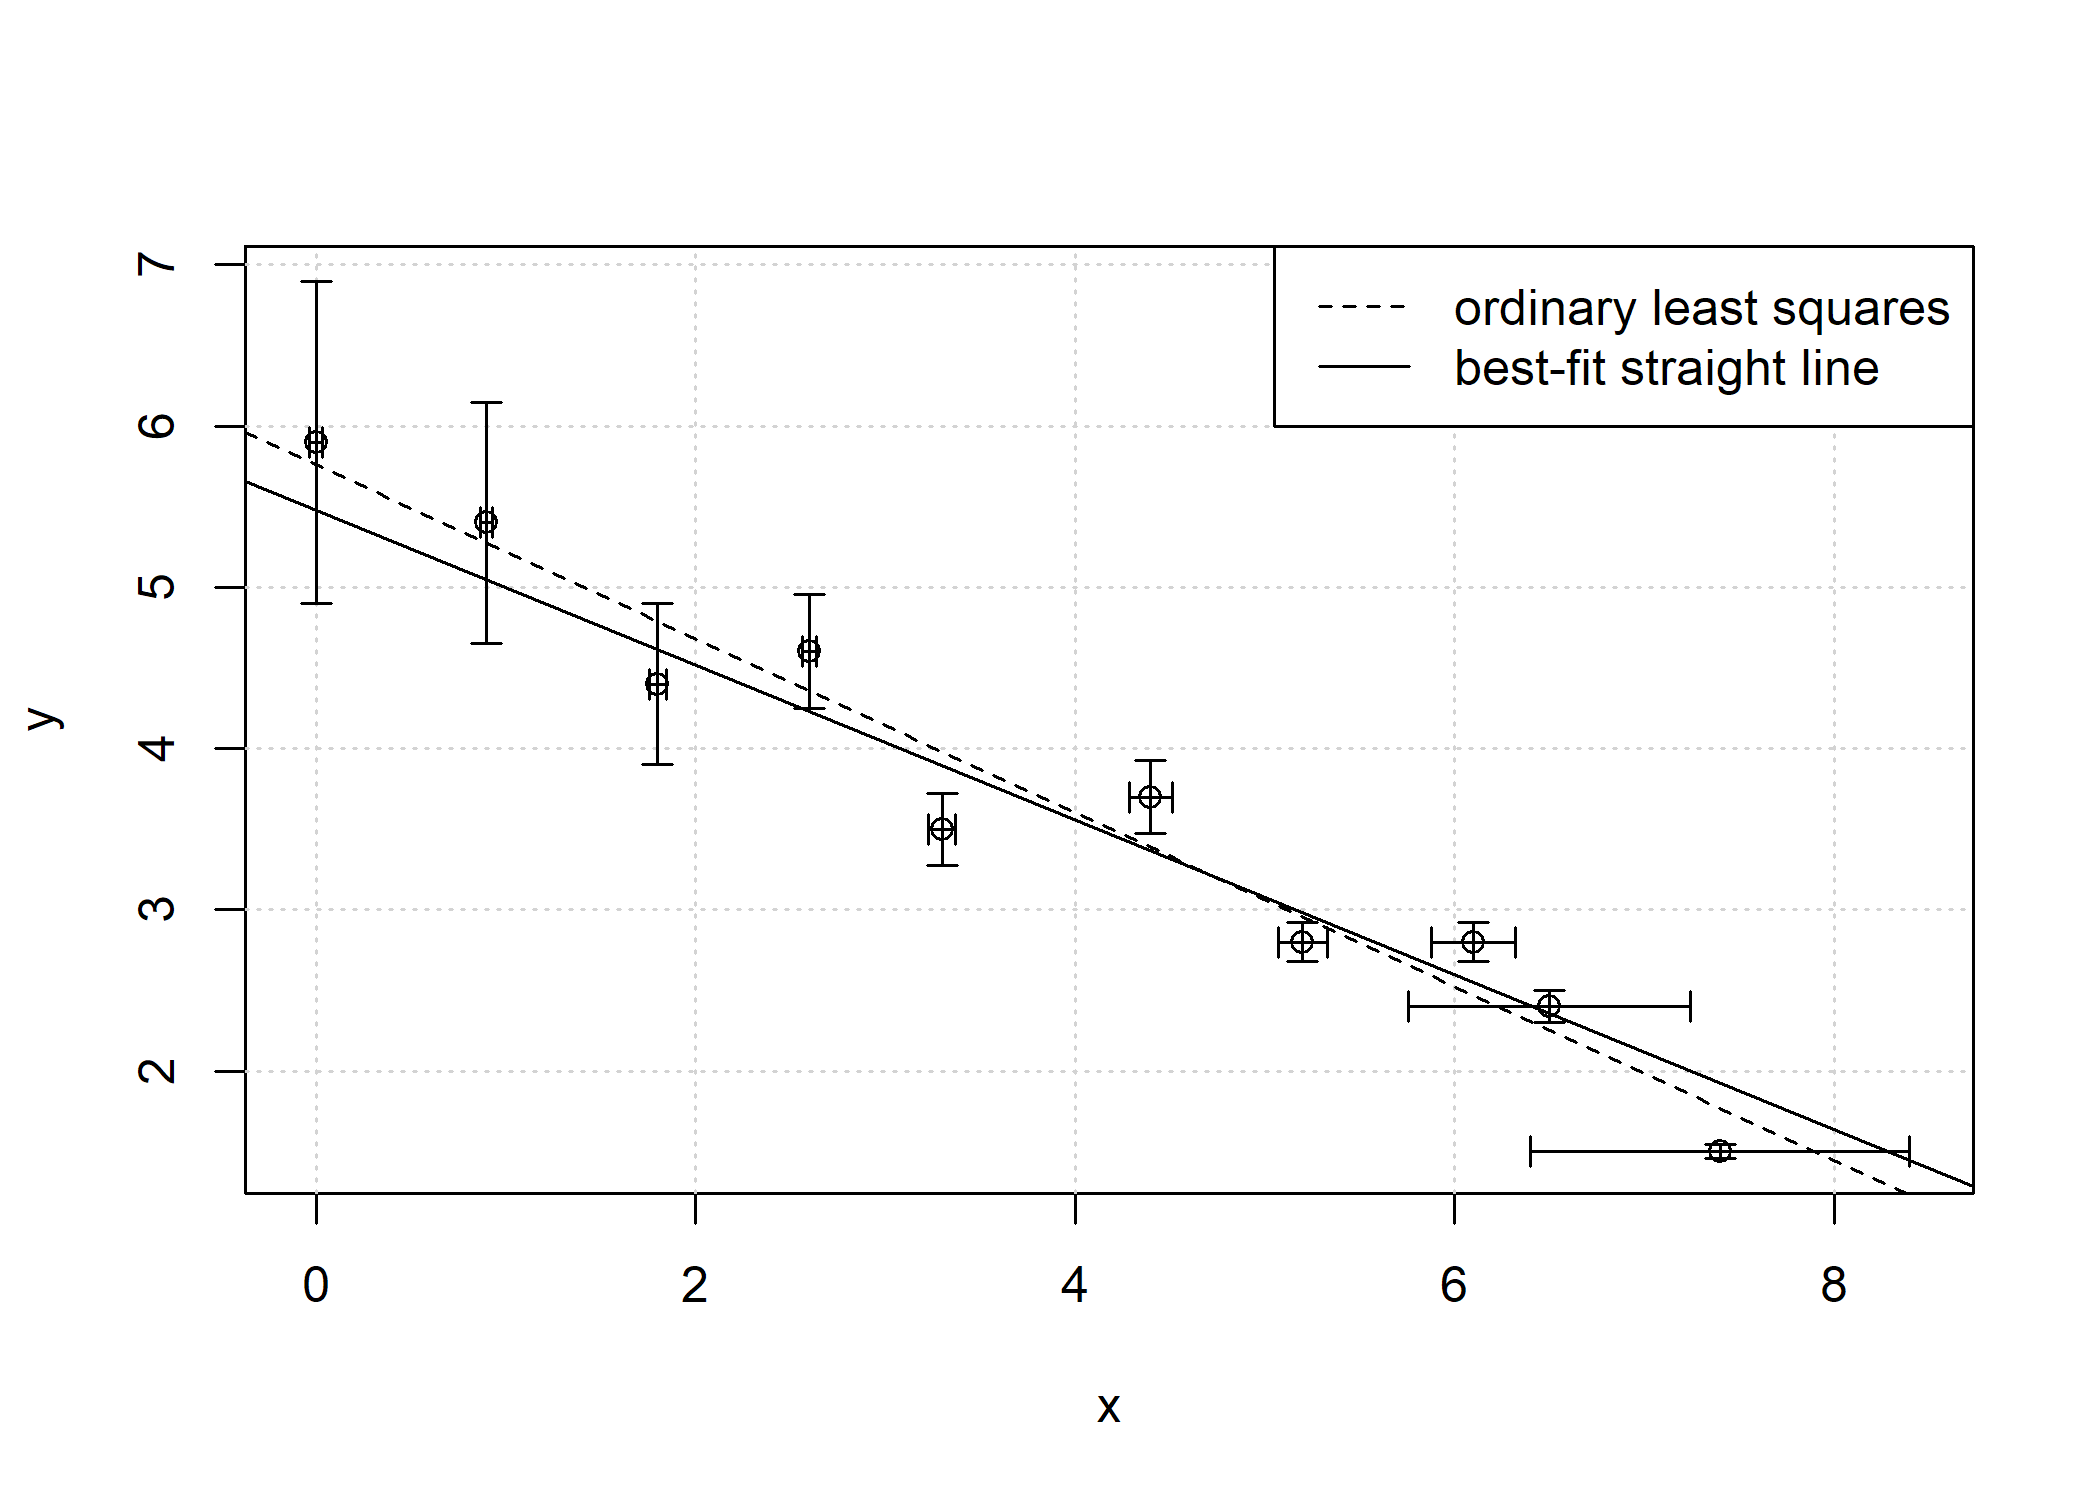
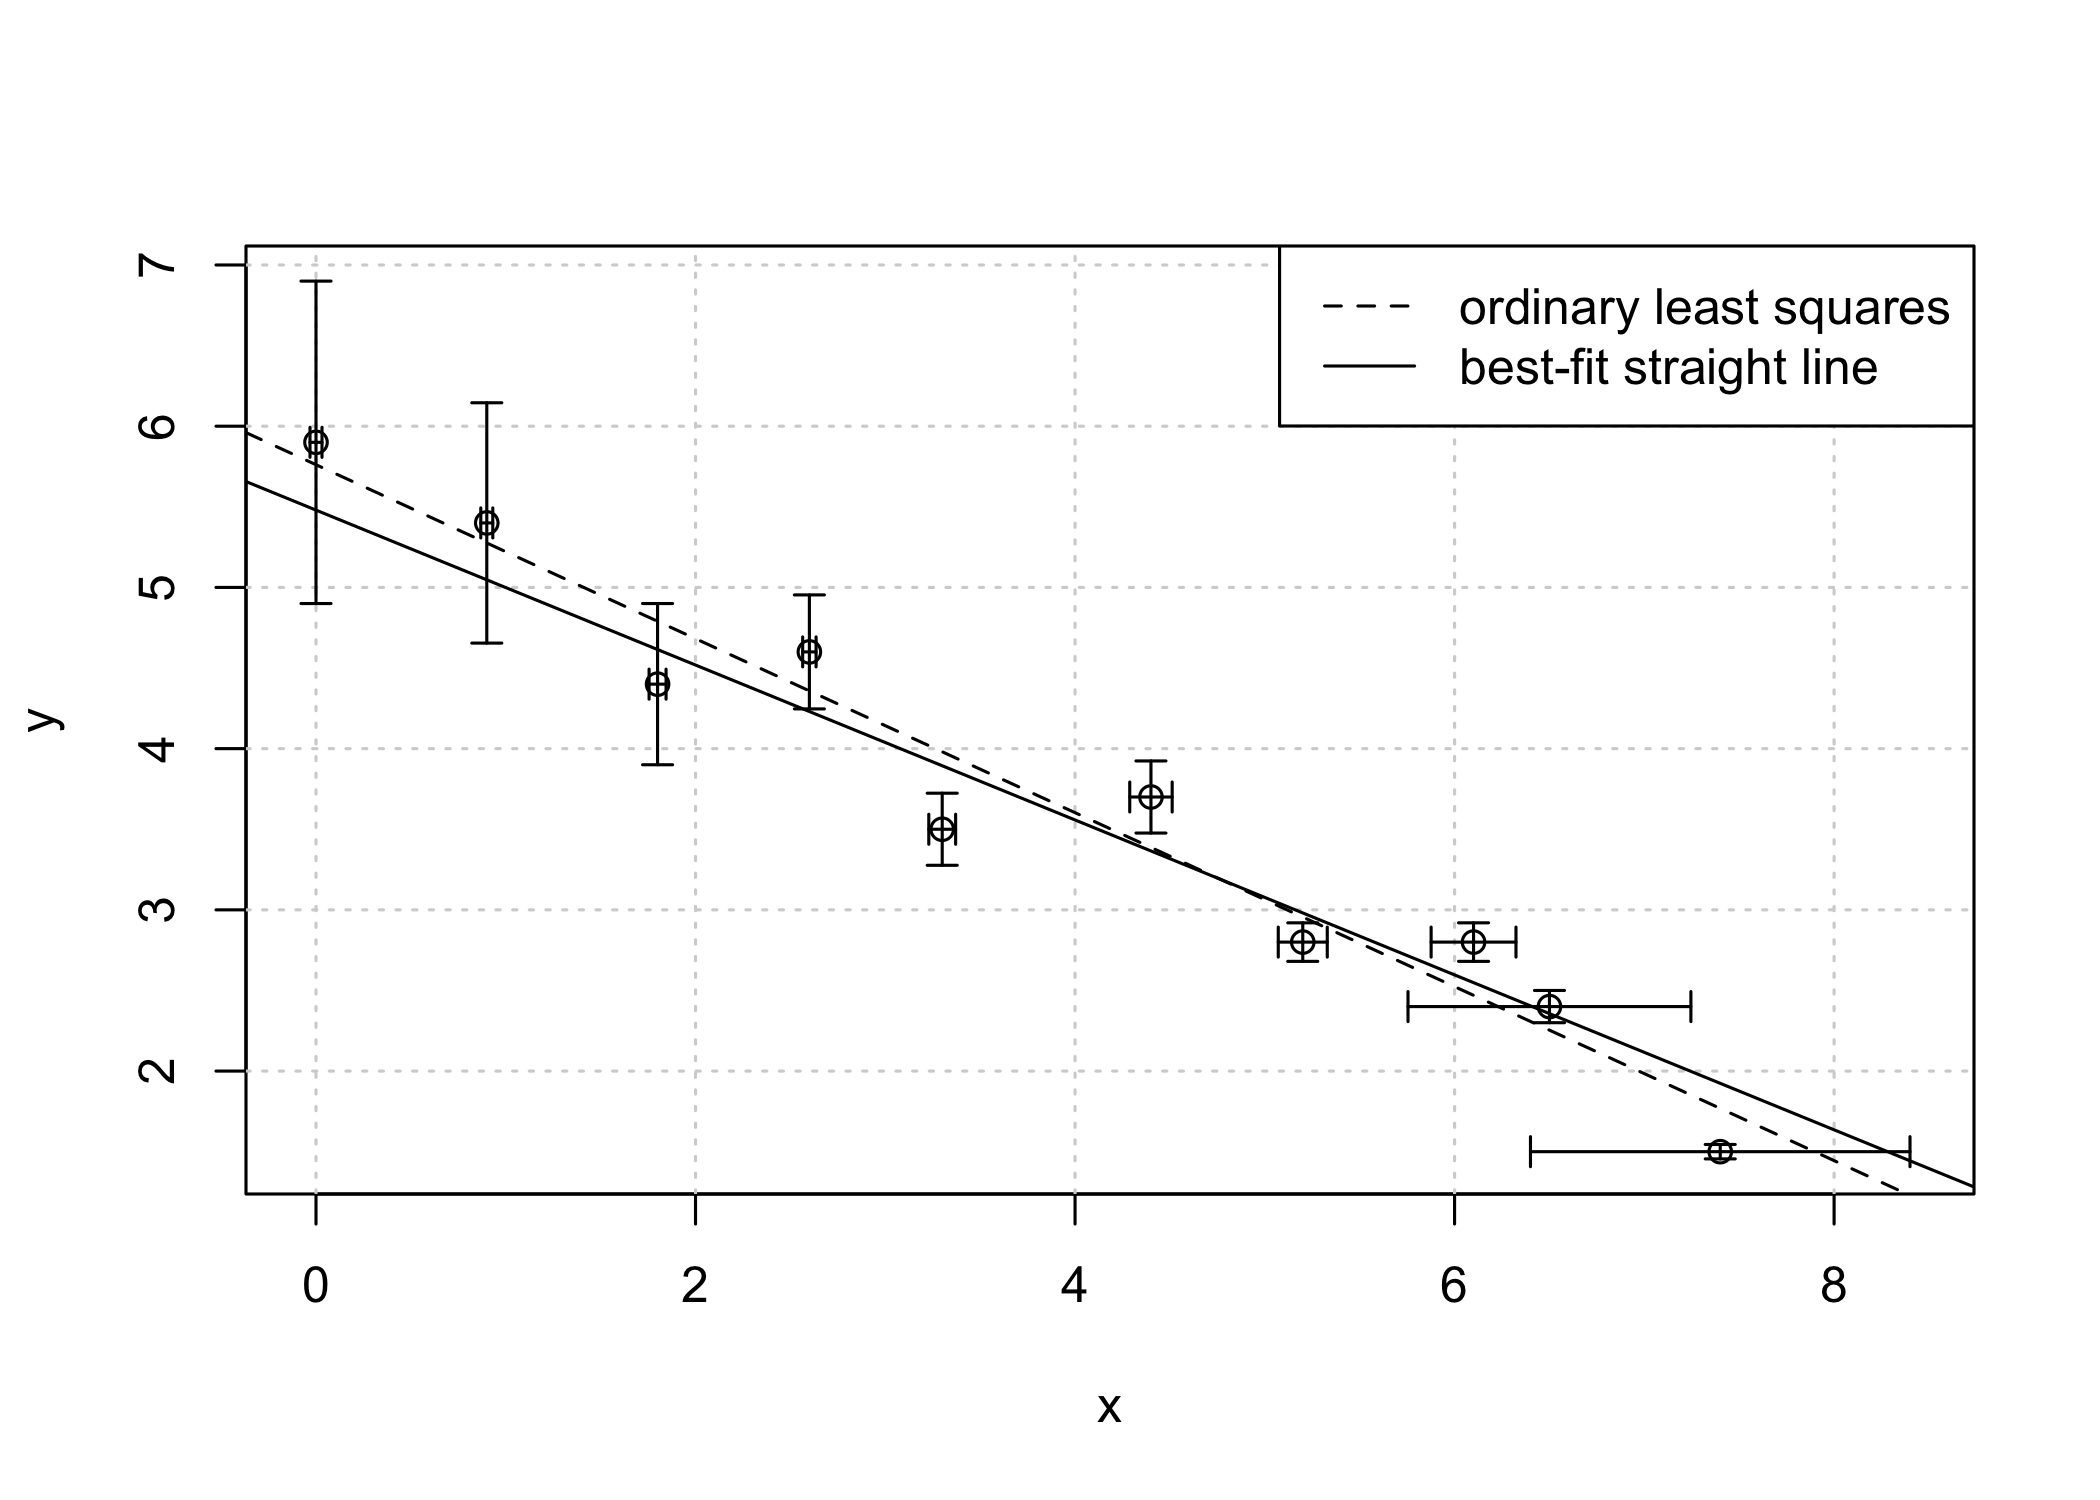
Renamed sample data to pearson_york_data.

diff --git a/README.md b/README.md
@@ -13,6 +13,9 @@ rank](http://www.rpackages.io/badge/bfsl.svg)](http://www.rpackages.io/package/b
 [![CRAN
 downloads/month](https://cranlogs.r-pkg.org/badges/bfsl)](https://cran.r-project.org/package=bfsl)
 <!-- [![CRAN total downloads](https://cranlogs.r-pkg.org/badges/grand-total/bfsl)](https://cran.r-project.org/package=bfsl) -->
+[![Project Status: Active – The project has reached a stable, usable
+state and is being actively
+developed.](https://www.repostatus.org/badges/latest/active.svg)](https://www.repostatus.org/#active)
 
 ### How to fit a straight line through a set of points with errors in both coordinates?
 
@@ -43,9 +46,9 @@ coordinates.
 
 ``` r
 library(bfsl)
-fit = bfsl(pearson_york)
+fit = bfsl(pearson_york_data)
 plot(fit)
-ols = bfsl(pearson_york, sd_x = 0, sd_y = 1)
+ols = bfsl(pearson_york_data, sd_x = 0, sd_y = 1)
 abline(coef = ols$coef[,1], lty = 2)
 legend("topright", c("ordinary least squares", "best-fit straight line"), lty = c(2,1))
 ```
@@ -53,7 +56,7 @@ legend("topright", c("ordinary least squares", "best-fit straight line"), lty = 
 <img src="man/figures/README-plot-1.png" width="75%" />
 
 ``` r
-bfsl(pearson_york)
+bfsl(pearson_york_data)
 #> Best-fit straight line
 #> 
 #>            Estimate  Std. Error

diff --git a/NEWS.md b/NEWS.md
@@ -1,4 +1,4 @@
-# bfsl 0.1.0.9002
+# bfsl 0.1.0.9003
 
 * Updated README.md.
 * Using `arrows()` instead of `segments()` to plot error bars in `plot.bfsl()`.
